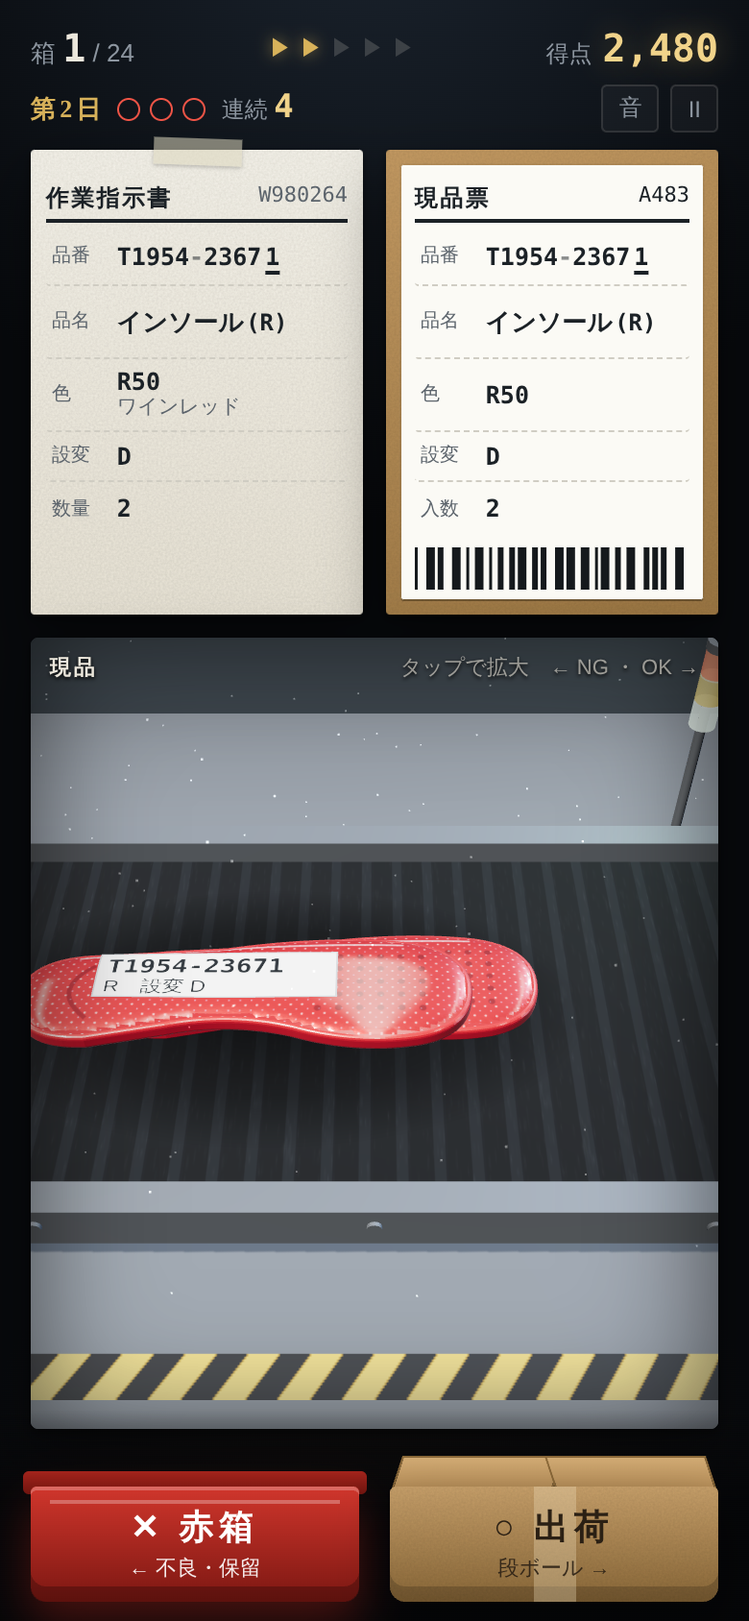
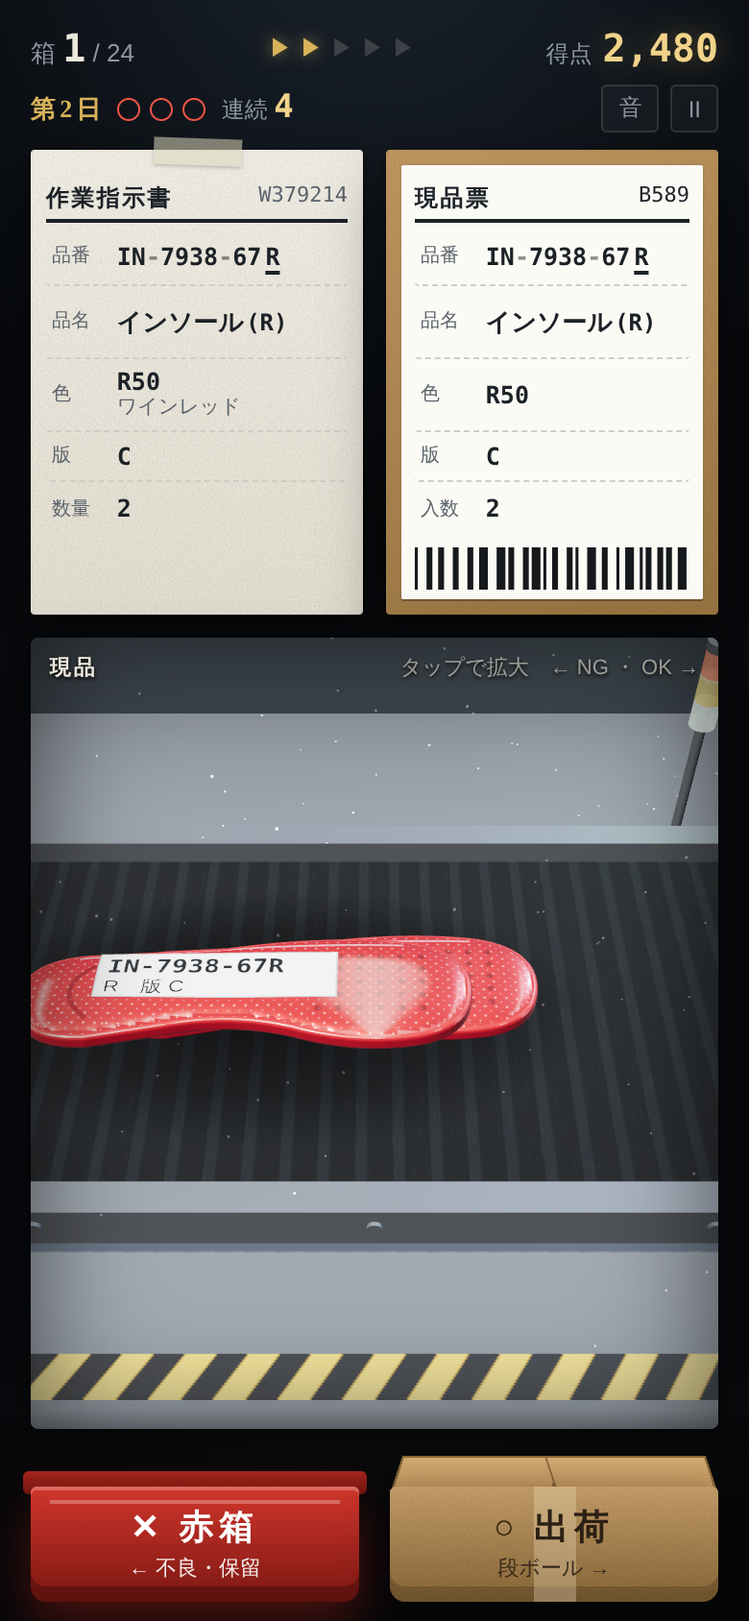
品番体系と「設変」の呼び方を一般的なものに変更
品番を「分類2文字-型番4桁-枝番2桁」＋左右の R / L に（例：IN-4071-23R）。
「設変」を「版」に、3日目を「改版ラッシュ」に。
監査中以外の判定に「監査員の疑い」が出ていた表示を修正。
README・スクリーンショット・og.png を更新。

diff --git a/index.html b/index.html
@@ -510,8 +510,8 @@ const SOUND_KEY = "santen-check-sound";
 /* 7日間。stageAt は難易度の段階が上がる箱番号（0始まり） */
 const DAYS = [
   { name: "立上げ", sub: "まずは三点を見比べる目を作る", rate: .22, stageAt: [0, 99, 99], switch: false, startLvl: 1, claimMax: 3, boss: false },
-  { name: "通常稼働", sub: "設変の切替がやってくる", rate: .25, stageAt: [0, 6, 99], switch: true, startLvl: 1, claimMax: 3, boss: true },
-  { name: "設変ラッシュ", sub: "旧品の在庫が混ざりやすい", rate: .28, stageAt: [0, 4, 12], switch: true, oldProb: .75, startLvl: 1, claimMax: 3, boss: true },
+  { name: "通常稼働", sub: "版の切替がやってくる", rate: .25, stageAt: [0, 6, 99], switch: true, startLvl: 1, claimMax: 3, boss: true },
+  { name: "改版ラッシュ", sub: "旧品の在庫が混ざりやすい", rate: .28, stageAt: [0, 4, 12], switch: true, oldProb: .75, startLvl: 1, claimMax: 3, boss: true },
   { name: "夜勤", sub: "照明が切れている。指でなぞって照らす", rate: .28, stageAt: [0, 6, 14], switch: true, startLvl: 1, claimMax: 3, boss: true, night: true },
   { name: "繁忙期", sub: "ライン速度 3 から始まる", rate: .28, stageAt: [0, 5, 12], switch: true, startLvl: 3, claimMax: 3, boss: true },
   { name: "新人の箱詰め", sub: "異常が多い。止めて止めて止めまくる", rate: .4, stageAt: [0, 3, 10], switch: true, startLvl: 2, claimMax: 3, boss: true },
@@ -522,7 +522,7 @@ const DAYS = [
 const RESIN = "#1c1e21";
 const STROKE = "rgba(0,0,0,.55)";
 const PARTS = [
-  { key: "insole", name: "インソール", brk: ["インソール"], sided: true, qtys: [2, 4], tag: [96, 56],
+  { key: "insole", code: "IN", name: "インソール", brk: ["インソール"], sided: true, qtys: [2, 4], tag: [96, 56],
     body: "M28 82 Q26 52 66 48 L150 42 Q220 28 272 36 Q308 44 308 74 Q308 104 278 112 Q240 120 200 106 Q160 94 120 104 L72 114 Q30 116 28 82 Z",
     parts: () => {
       let dots = "";
@@ -531,33 +531,33 @@ const PARTS = [
       <path d="M72 60 Q46 82 72 104" fill="none" stroke="#000" stroke-opacity=".25" stroke-width="3"/>
       <path d="M60 52 Q140 40 268 40" fill="none" stroke="#fff" stroke-opacity=".45" stroke-width="2"/>`;
     } },
-  { key: "lever", name: "レバーハンドル", brk: ["レバー", "ハンドル"], sided: true, qtys: [1, 2], tag: [128, 66],
+  { key: "lever", code: "LV", name: "レバーハンドル", brk: ["レバー", "ハンドル"], sided: true, qtys: [1, 2], tag: [128, 66],
     body: "M40 80 Q40 44 76 44 Q100 44 108 60 L270 62 Q300 63 304 84 Q306 104 288 110 L282 96 Q280 86 266 86 L108 96 Q100 116 76 116 Q40 116 40 80 Z",
     parts: () => `
       <circle cx="76" cy="80" r="24" fill="none" stroke="#000" stroke-opacity=".3" stroke-width="2"/>
       <circle cx="76" cy="80" r="9" fill="#000" fill-opacity=".25"/>
       <circle cx="76" cy="53" r="3" fill="#000" fill-opacity=".5"/><circle cx="76" cy="107" r="3" fill="#000" fill-opacity=".5"/>
       <path d="M112 66 L268 67 Q292 68 298 84" fill="none" stroke="#fff" stroke-opacity=".55" stroke-width="2"/>` },
-  { key: "bracket", name: "棚受け金具", brk: ["棚受け", "金具"], sided: true, qtys: [2, 4], tag: [150, 98],
+  { key: "bracket", code: "BK", name: "棚受け金具", brk: ["棚受け", "金具"], sided: true, qtys: [2, 4], tag: [150, 98],
     body: "M40 24 L74 24 L74 94 L292 94 L292 128 L54 128 Q40 128 40 114 Z",
     parts: () => `
       <path d="M74 58 L160 94" stroke="#000" stroke-opacity=".3" stroke-width="7" stroke-linecap="round"/>
       ${[[57, 40], [57, 72], [104, 111], [276, 111]].map(([x, y]) => `<circle cx="${x}" cy="${y}" r="5" fill="#000" fill-opacity=".6"/>`).join("")}
       <path d="M42 26 L72 26 M76 96 L290 96" stroke="#fff" stroke-opacity=".45" stroke-width="2"/>` },
-  { key: "case", name: "スマホケース", brk: ["スマホ", "ケース"], sided: false, qtys: [1, 2], tag: [150, 90],
+  { key: "case", code: "PC", name: "スマホケース", brk: ["スマホ", "ケース"], sided: false, qtys: [1, 2], tag: [150, 90],
     body: "M30 40 Q30 24 46 24 L274 24 Q290 24 290 40 L290 120 Q290 136 274 136 L46 136 Q30 136 30 120 Z",
     parts: () => `
       <rect x="36" y="30" width="248" height="100" rx="12" fill="none" stroke="#000" stroke-opacity=".18" stroke-width="2"/>
       <rect x="44" y="36" width="58" height="42" rx="11" fill="#000" fill-opacity=".22"/>
       <circle cx="62" cy="51" r="8" fill="#111"/><circle cx="85" cy="63" r="8" fill="#111"/><circle cx="85" cy="45" r="3" fill="#ddd"/>
       <rect x="190" y="24" width="40" height="4" fill="#000" fill-opacity=".3"/>` },
-  { key: "bento", name: "弁当箱", brk: ["弁当箱"], sided: false, qtys: [1, 2], tag: [106, 66],
+  { key: "bento", code: "BX", name: "弁当箱", brk: ["弁当箱"], sided: false, qtys: [1, 2], tag: [106, 66],
     body: "M40 36 Q40 26 56 26 L264 26 Q280 26 280 36 L280 60 L296 62 Q300 62 300 66 L300 94 Q300 98 296 98 L280 100 L280 124 Q280 134 264 134 L56 134 Q40 134 40 124 L40 100 L24 98 Q20 98 20 94 L20 66 Q20 62 24 62 L40 60 Z",
     parts: () => `
       <rect x="52" y="38" width="216" height="84" rx="10" fill="none" stroke="#fff" stroke-opacity=".35" stroke-width="2"/>
       <path d="M20 66 Q20 62 24 62 L40 60 L40 100 L24 98 Q20 98 20 94 Z M300 66 Q300 62 296 62 L280 60 L280 100 L296 98 Q300 98 300 94 Z" fill="${RESIN}" fill-opacity=".75"/>
       <circle cx="248" cy="50" r="7" fill="#000" fill-opacity=".3"/>` },
-  { key: "mug", name: "マグカップ", brk: ["マグ", "カップ"], sided: false, qtys: [2, 4], tag: [86, 66],
+  { key: "mug", code: "MG", name: "マグカップ", brk: ["マグ", "カップ"], sided: false, qtys: [2, 4], tag: [86, 66],
     body: "M70 30 L210 30 Q216 30 216 36 L216 52 Q252 50 256 80 Q252 110 216 108 L216 124 Q216 130 210 130 L70 130 Q64 130 64 124 L64 36 Q64 30 70 30 Z",
     parts: () => `
       <path d="M216 62 Q240 62 242 80 Q240 98 216 98 Z" fill="#000" fill-opacity=".55"/>
@@ -601,11 +601,11 @@ const pick = a => a[rnd(a.length)];
 const digits = n => Array.from({ length: n }, () => rnd(10)).join("");
 const chance = p => Math.random() < p;
 
-/* 品番：英字1文字＋4桁-5桁。左右品は末尾 1=R, 2=L */
-function makePn(sided, side) {
-  return pick(["D", "M", "T"]) + digits(4) + "-" + digits(4) + (sided ? (side === "R" ? "1" : "2") : "0");
+/* 品番：分類2文字-型番4桁-枝番2桁。左右のある品は末尾に R / L（例：IN-4071-23R） */
+function makePn(type, side) {
+  return type.code + "-" + digits(4) + "-" + digits(2) + (type.sided ? side : "");
 }
-const flipSidePn = pn => pn.slice(0, -1) + (pn.endsWith("1") ? "2" : "1");
+const flipSidePn = pn => pn.slice(0, -1) + (pn.endsWith("R") ? "L" : "R");
 function similarPn(pn) {
   const idx = [];
   for (let i = 1; i < pn.length - 1; i++) if (/\d/.test(pn[i])) idx.push(i);
@@ -620,7 +620,8 @@ function similarPn(pn) {
     const s = a.join("");
     if (s !== pn) return s;
   }
-  return pn.slice(0, 2) + ((+pn[2] + 3) % 10) + pn.slice(3);
+  const k = pn.search(/\d/);
+  return pn.slice(0, k) + ((+pn[k] + 3) % 10) + pn.slice(k + 1);
 }
 /* 違う色。紛らわしい相手は段階 1 から */
 function otherColor(c, allowPair) {
@@ -631,14 +632,14 @@ const stageOf = (i, day) => (day.boss && i >= BOSS_FROM) || i >= day.stageAt[2] 
 
 /* ====== シフトの組み立て ======
    ・最初の3箱は練習：1・2箱目は正常、3箱目はひと目で分かる異常
-   ・主力品：何度も流れてくる1品目。途中で設変が切り替わり、その後に旧品が混ざる
+   ・主力品：何度も流れてくる1品目。途中で版が切り替わり、その後に旧品が混ざる
    ・静かな区間：QUIET 箱続けて正常のあとに異常を1つ置く */
 function makeShift(day) {
   const mType = pick(PARTS.filter(p => p.sided && p.qtys.some(q => q > 1)));
   const mSide = pick(["R", "L"]);
   const oldRev = pick(REVS.slice(0, 4));
   const main = {
-    type: mType, side: mSide, pn: makePn(true, mSide), color: pick(COLORS), qty: pick(mType.qtys),
+    type: mType, side: mSide, pn: makePn(mType, mSide), color: pick(COLORS), qty: pick(mType.qtys),
     oldRev, newRev: REVS[REVS.indexOf(oldRev) + 1],
   };
   const switchAt = day.switch ? 7 + rnd(4) : 999;
@@ -679,7 +680,7 @@ function makeBox(i, wantDefect, isMain, main, switchAt, forceOld, day) {
   } else {
     const type = pick(PARTS);
     const side = type.sided ? pick(["R", "L"]) : null;
-    truth = { type, side, pn: makePn(type.sided, side), color: pick(COLORS), rev: pick(REVS), qty: pick(type.qtys) };
+    truth = { type, side, pn: makePn(type, side), color: pick(COLORS), rev: pick(REVS), qty: pick(type.qtys) };
   }
   const label = { ...truth };
   const part = { ...truth, foreign: null, count: truth.qty, odd: null };
@@ -695,12 +696,12 @@ function makeBox(i, wantDefect, isMain, main, switchAt, forceOld, day) {
     else {
       part.type = pick(PARTS.filter(p => p !== truth.type));
       part.side = part.type.sided ? (truth.side || "R") : null;
-      part.pn = makePn(part.type.sided, part.side);
+      part.pn = makePn(part.type, part.side);
     }
     box.defect = { where: "part", field: part.foreign ? "foreign" : "type" };
     return done();
   }
-  // 切替後の主力品は、旧設変の在庫が流れてくることがある
+  // 切替後の主力品は、旧版の在庫が流れてくることがある
   if (forceOld || (isMain && i > switchAt && chance(day.oldProb || 0.5))) {
     label.rev = part.rev = main.oldRev;
     box.defect = { where: "both", field: "oldrev" };
@@ -743,7 +744,7 @@ function makeBox(i, wantDefect, isMain, main, switchAt, forceOld, day) {
       const ty = pick(PARTS.filter(p => p !== truth.type));
       const sd = ty.sided ? (truth.side || pick(["R", "L"])) : null;
       if (odd) { odd.type = ty; odd.side = sd; }
-      else { part.type = ty; part.side = sd; part.pn = makePn(ty.sided, sd); }
+      else { part.type = ty; part.side = sd; part.pn = makePn(ty, sd); }
     }
     if (f === "foreign") part.foreign = { ...pick(FOREIGN), at: chance(0.5) ? [14, 116] : [262, 114] };
     part.odd = odd;
@@ -762,13 +763,13 @@ function buildPieces(part) {
 function describe(box) {
   const d = box.defect; if (!d) return "三点とも一致しています。";
   const t = box.truth, l = box.label, p = box.part;
-  if (d.where === "both") return `設変切替前の旧品（設変 ${l.rev}）です。指示は ${t.rev}。`;
+  if (d.where === "both") return `切替前の旧版の品（版 ${l.rev}）です。指示は ${t.rev}。`;
   if (d.where === "sheet") return `指示書の色コード ${t.color.code} と色名「${box.sheetColorName}」が食い違っています。指示書の誤りは出荷せず確認します。`;
   if (d.where === "label") {
     if (d.field === "pn") return `ラベルの品番 ${l.pn} が指示書 ${t.pn} と違います。`;
     if (d.field === "qty") return `ラベルの入数 ${l.qty} が指示数 ${t.qty} と違います。`;
     if (d.field === "color") return `ラベルの色 ${l.color.code} が指示書 ${t.color.code} と違います。`;
-    if (d.field === "rev") return `ラベルの設変 ${l.rev} が指示書 ${t.rev} と違います。`;
+    if (d.field === "rev") return `ラベルの版 ${l.rev} が指示書 ${t.rev} と違います。`;
     if (d.field === "blur") return "ラベルの品番がかすれて読めません。読めないラベルは出荷しません。";
   } else {
     const o = p.odd, n = p.count;
@@ -778,7 +779,7 @@ function describe(box) {
     if (d.field === "qty") return `箱の中身が ${n} 個です。指示数は ${t.qty}。`;
     if (d.field === "pn") return `現品の品番 ${p.pn} が指示書 ${t.pn} と違います。`;
     if (d.field === "color") return `現品の色が ${p.color.code} ${p.color.name} です。指示は ${t.color.code} ${t.color.name}。`;
-    if (d.field === "rev") return `現品の設変 ${p.rev} が指示書 ${t.rev} と違います。`;
+    if (d.field === "rev") return `現品の版 ${p.rev} が指示書 ${t.rev} と違います。`;
     if (d.field === "side") return `現品が ${p.side} 品です。指示は ${t.side}（形も左右逆）。`;
     if (d.field === "type") return `箱の中身が ${p.type.name} です。指示は ${t.type.name}。`;
     if (d.field === "foreign") return `箱に異物（${p.foreign.name}）が入っています。`;
@@ -787,10 +788,10 @@ function describe(box) {
 }
 function category(box) {
   const d = box.defect; if (!d) return "";
-  if (d.where === "both") return "旧設変品";
+  if (d.where === "both") return "旧版品";
   if (d.where === "sheet") return "指示書の誤り";
   if (box.part.odd) return "奥の1個";
-  return ({ pn: "品番", qty: "数量", color: "色", rev: "設変", blur: "ラベルかすれ", side: "左右", type: "異品", foreign: "異物" })[d.field];
+  return ({ pn: "品番", qty: "数量", color: "色", rev: "版", blur: "ラベルかすれ", side: "左右", type: "異品", foreign: "異物" })[d.field];
 }
 
 /* ====== 効果音（Web Audio。最初の操作のあとに鳴る） ====== */
@@ -913,14 +914,18 @@ function partSvg(p) {
     <g class="idtag" transform="translate(${tagX.toFixed(1)},${ty.toFixed(1)})">
       <rect width="108" height="28" rx="2" fill="#f7f6f0" stroke="#9aa0a4" stroke-width=".8"/>
       <text x="5" y="12" font-family="IBM Plex Mono, Consolas, monospace" font-size="11" font-weight="600" fill="#15191c">${esc(p.pn)}</text>
-      <text x="5" y="24" font-family="BIZ UDPGothic, sans-serif" font-size="9.5" fill="#15191c">${p.side ? p.side + "　" : ""}設変 ${esc(p.rev)}</text>
+      <text x="5" y="24" font-family="BIZ UDPGothic, sans-serif" font-size="9.5" fill="#15191c">${p.side ? p.side + "　" : ""}版 ${esc(p.rev)}</text>
     </g>
     ${f ? f.draw(f.at[0], f.at[1]) : ""}
   </svg>`;
 }
 
 /* 品番は「英字＋4桁」「4桁」「末尾1桁」に分けて表示し、読み比べやすくする */
-const pnHtml = pn => `${esc(pn.slice(0, 5))}<span class="sep">-</span>${esc(pn.slice(6, 10))}<span class="tail">${esc(pn.slice(10))}</span>`;
+const pnHtml = pn => {
+  const [a, b, c = ""] = pn.split("-");
+  const side = /[RL]$/.test(c) ? c.slice(-1) : "";
+  return `${esc(a)}<span class="sep">-</span>${esc(b)}<span class="sep">-</span>${esc(side ? c.slice(0, -1) : c)}${side ? `<span class="tail">${side}</span>` : ""}`;
+};
 
 function rowHtml(key, label, value, mono, extraCls = "", sub = "", ddCls = "") {
   return `<div class="row ${extraCls}" data-f="${key}"><dt>${label}</dt><dd class="${mono ? "mono" : ""} ${ddCls}">${value}${sub}</dd></div>`;
@@ -1208,7 +1213,7 @@ const View3D = {
     g.strokeStyle = "#9aa0a4"; g.lineWidth = 4; g.strokeRect(2, 2, 536, 136);
     g.fillStyle = "#15191c";
     g.font = "600 60px 'IBM Plex Mono', Consolas, monospace"; g.fillText(pn, 22, 66);
-    g.font = "48px 'BIZ UDPGothic', sans-serif"; g.fillText(`${side ? side + "　" : ""}設変 ${rev}`, 22, 124);
+    g.font = "48px 'BIZ UDPGothic', sans-serif"; g.fillText(`${side ? side + "　" : ""}版 ${rev}`, 22, 124);
     const t = new THREE.CanvasTexture(c); t.encoding = THREE.sRGBEncoding; t.anisotropy = this.r.capabilities.getMaxAnisotropy();
     return t;
   },
@@ -1587,8 +1592,8 @@ function hudHtml() {
         <div class="hp"><i style="width:${(a.hp / a.max * 100).toFixed(1)}%"></i></div>
         <div class="strikes">指摘 <span class="dots">${Array.from({ length: AUDIT_MAX }, (_, k) => `<i class="${k < a.strikes ? "on" : ""}"></i>`).join("")}</span>　<span class="note">監査中は出荷の正誤もその場で分かります</span></div>
       </div>` : ""}
-    ${S.i >= S.shift.switchAt ? `<div class="chip">設変切替：<b class="mono">${esc(S.shift.main.pn)}</b>　${S.shift.main.oldRev} → <b class="mono">${S.shift.main.newRev}</b></div>` : ""}
-    ${S.dayIdx === 0 && S.i < 3 ? `<div class="chip learn">練習 ${S.i + 1} / 3：${["三点とも同じなら右へスワイプして段ボールへ", "品番・色・設変・数量・左右を見比べます", "何かおかしい箱は左へスワイプして赤箱へ"][S.i]}</div>` : ""}`;
+    ${S.i >= S.shift.switchAt ? `<div class="chip">版の切替：<b class="mono">${esc(S.shift.main.pn)}</b>　${S.shift.main.oldRev} → <b class="mono">${S.shift.main.newRev}</b></div>` : ""}
+    ${S.dayIdx === 0 && S.i < 3 ? `<div class="chip learn">練習 ${S.i + 1} / 3：${["三点とも同じなら右へスワイプして段ボールへ", "品番・色・版・数量・左右を見比べます", "何かおかしい箱は左へスワイプして赤箱へ"][S.i]}</div>` : ""}`;
 }
 
 function renderBox() {
@@ -1605,10 +1610,10 @@ function renderBox() {
           ${rowHtml("pn", "品番", pnHtml(t.pn), true)}
           ${rowHtml("name", "品名", nameHtml(t.type, t.side))}
           ${rowHtml("color", "色", esc(t.color.code), true, "", `<span class="cname">${esc(box.sheetColorName)}</span>`)}
-          ${rowHtml("rev", "設変", esc(t.rev), true)}
+          ${rowHtml("rev", "版", esc(t.rev), true)}
           ${rowHtml("qty", "数量", t.qty, true, "qty")}
         </dl>
-        ${box.switched ? `<span class="stamp">設変切替</span>` : ""}
+        ${box.switched ? `<span class="stamp">版切替</span>` : ""}
       </section>
       <section class="card box" aria-label="梱包箱ラベル">
         <div class="tag">
@@ -1617,7 +1622,7 @@ function renderBox() {
             ${rowHtml("pn", "品番", pnHtml(l.pn), true, "", "", blur ? "smudge" : "")}
             ${rowHtml("name", "品名", nameHtml(l.type, l.side))}
             ${rowHtml("color", "色", esc(l.color.code), true)}
-            ${rowHtml("rev", "設変", esc(l.rev), true)}
+            ${rowHtml("rev", "版", esc(l.rev), true)}
             ${rowHtml("qty", "入数", l.qty, true, "qty")}
           </dl>
           ${barcodeSvg(l.pn + box.lot)}
@@ -1732,8 +1737,8 @@ function showNotice() {
   v.className = "verdict info";
   v.innerHTML = `<div class="bubble" role="dialog" aria-label="班長からの連絡">
       <div class="from">班長より</div>
-      <div class="what">この箱から設変が切り替わります</div>
-      <div class="why">${esc(sideName(m.type.name, m.side))}　<span class="mono">${esc(m.pn)}</span><br>設変 <b class="mono">${m.oldRev}</b> → <b class="mono">${m.newRev}</b>。切替前の在庫が混ざらないよう見てください。</div>
+      <div class="what">この箱から版が切り替わります</div>
+      <div class="why">${esc(sideName(m.type.name, m.side))}　<span class="mono">${esc(m.pn)}</span><br>版 <b class="mono">${m.oldRev}</b> → <b class="mono">${m.newRev}</b>。切替前の在庫が混ざらないよう見てください。</div>
       <button class="big-btn ack" id="ack" type="button">了解</button></div>`;
   document.getElementById("desk").appendChild(v);
   const ok = () => { v.remove(); S.next = null; run(); };
@@ -1880,7 +1885,8 @@ function judge(choice) {
   if (good) { SND.catch(S.combo); buzz(40); if (up) setTimeout(() => SND.levelup(), 250); floatPts($binNG, `+${pts}`, up ? `ライン速度 ${S.lvl}` : ""); }
   else if (kind === "timeout") { SND.stopLine(); buzz([200, 100, 200]); }
   else { SND.bad(); buzz([80, 60, 80]); }
-  const hit = dmg > 0 ? `<div class="dmg">監査員の疑い −${dmg}</div>` : dmg < 0 ? `<div class="dmg">監査員の疑い ＋${-dmg}</div>` : "";
+  // 監査員の疑いの増減は、監査中だけ表示する
+  const hit = !a ? "" : dmg > 0 ? `<div class="dmg">監査員の疑い −${dmg}</div>` : dmg < 0 ? `<div class="dmg">監査員の疑い ＋${-dmg}</div>` : "";
   bubble(good ? "good" : "bad", `
       <div class="mark">${good ? "○" : "✕"}</div>
       <div class="what">${title}</div>

diff --git a/README.md b/README.md
@@ -17,7 +17,7 @@
 <tr>
 <td align="center"><img src="docs/screenshots/01-title.png" width="200" alt="タイトル画面"><br>7日間を順に解放</td>
 <td align="center"><img src="docs/screenshots/02-play.png" width="200" alt="指示書・現品票・現品"><br>指示書と現品票の行は横一列</td>
-<td align="center"><img src="docs/screenshots/03-catch.png" width="200" alt="マグカップ4個入り"><br>個数も見比べる（4個入り）</td>
+<td align="center"><img src="docs/screenshots/03-catch.png" width="200" alt="レバーハンドル（L）"><br>左右は品番の末尾 R / L でも見分ける</td>
 </tr>
 <tr>
 <td align="center"><img src="docs/screenshots/04-audit.png" width="200" alt="客先監査"><br>17箱目からは客先監査</td>
@@ -30,7 +30,7 @@
 
 1. **見比べる。** 指示書が正です。現品票（箱のラベル）と現品が、指示書と同じかを確かめます
 2. **合っていれば、右へはじいて出荷。** 現品が段ボールに入ります
-3. **一つでも違えば、左へはじいて赤箱。** 品番・色・設変・数量・左右、異品や異物の混入も
+3. **一つでも違えば、左へはじいて赤箱。** 品番・色・版・数量・左右、異品や異物の混入も
 
 流れてくる品物は、インソール・レバーハンドル・棚受け金具・スマホケース・弁当箱・マグカップの6種類です。左右のある品（インソール・レバーハンドル・棚受け金具）は、L品とR品の取り違えにも注意します。
 
@@ -56,8 +56,8 @@
 | 日 | 名前 | とくちょう |
 |---|---|---|
 | 1 | 立上げ | 最初の3箱は練習。監査なし |
-| 2 | 通常稼働 | 途中で設変が切り替わる |
-| 3 | 設変ラッシュ | 切替前の旧品が混ざりやすい |
+| 2 | 通常稼働 | 途中で版が切り替わる |
+| 3 | 改版ラッシュ | 切替前の旧版の品が混ざりやすい |
 | 4 | 夜勤 | 検査台の照明が切れている。なぞって照らし、はじいて仕分け |
 | 5 | 繁忙期 | ライン速度 3 から始まる |
 | 6 | 新人の箱詰め | 異常が多い |
@@ -68,10 +68,10 @@
 ## 💡 コツ
 
 - **行を横に見る。** 指示書と現品票の同じ項目は、画面上で同じ高さに並んでいます
-- **品番の最後の1桁を見る。** 下線の数字は左右（1＝R、2＝L）です
+- **品番の最後の文字を見る。** 左右のある品は、品番の末尾（下線）が R か L です。品番の頭の2文字は品物の分類（IN＝インソール、MG＝マグカップなど）
 - **個数を数える。** 2個以上入りの箱は、奥の1個だけ違うことがあります
 - **異常が来ない時間ほど気をつける。** 正常が長く続いたあとに来ます
-- **班長の連絡を覚えておく。** 設変が切り替わったあと、旧品が流れてきます
+- **班長の連絡を覚えておく。** 版が切り替わったあと、旧版の品が流れてきます
 - **似た色に注意。** ホワイトとシルバー、ブラックとチャコールラメ
 
 ## ❓ よくある質問

diff --git a/development.md b/development.md
@@ -21,8 +21,8 @@ CLAUDE.md                   Claude 向けのコミット規則
 | 区切り | 内容 |
 |---|---|
 | 設定 | 箱数、持ち時間、得点、監査の値、7日間の定義（`DAYS`） |
-| 部品の絵 | 部品6種の外形（SVG パス）と細部、色、異物 |
-| シフトの組み立て | `makeShift(day)`・`makeBox()`：異常の出し方、静かな区間、設変切替、監査区間 |
+| 品物の絵 | 品物6種の外形（SVG パス）と細部、分類コード、色、異物 |
+| シフトの組み立て | `makeShift(day)`・`makeBox()`：異常の出し方、静かな区間、版の切替、監査区間 |
 | 効果音 | Web Audio による効果音と環境音（`SND`） |
 | 描画 | 帳票（指示書・現品票）と SVG の現品 |
 | 現品の表示 | `View3D`（three.js）と `ViewSVG`（2D）。同じ操作（mount・setProgress・fly・fall・reveal）で入れ替えられる |
@@ -32,7 +32,8 @@ CLAUDE.md                   Claude 向けのコミット規則
 
 ## ルールの要点
 
-- 異常は指示書が正。ラベル側（品番・数量・色・設変・かすれ）、現品側（品番・色・設変・左右・異品・異物・個数・奥の1個だけ違う）、両方（設変切替前の旧品）、指示書側（色コードと色名の食い違い）
+- 品番は「分類2文字-型番4桁-枝番2桁」、左右のある品は末尾に R / L（例：IN-4071-23R）。似た品番は、見間違えやすい数字への置き換えか隣り合う2桁の入れ替えで作り、左右の文字は変えない
+- 異常は指示書が正。ラベル側（品番・数量・色・版・かすれ）、現品側（品番・色・版・左右・異品・異物・個数・奥の1個だけ違う）、両方（版の切替前の旧版の品）、指示書側（色コードと色名の食い違い）
 - 難易度は箱の番号で段階的に上がる（`DAYS[].stageAt`）。監査区間（17箱目以降）は最上段で、異常は約半分・最低3つ
 - 出荷の正誤はその場で見せず、2〜4箱あとに市場クレームとして返す（監査中を除く）
 - 監査員の体力は「監査区間を全問正解したときに削れる量」の 80%（7日目は 95%）。異常を止めると 25、良品の出荷で 10 削れる。監査中の流出・ライン停止・過検出は指摘（3回で不合格）で、過検出は疑いが 25 戻る
